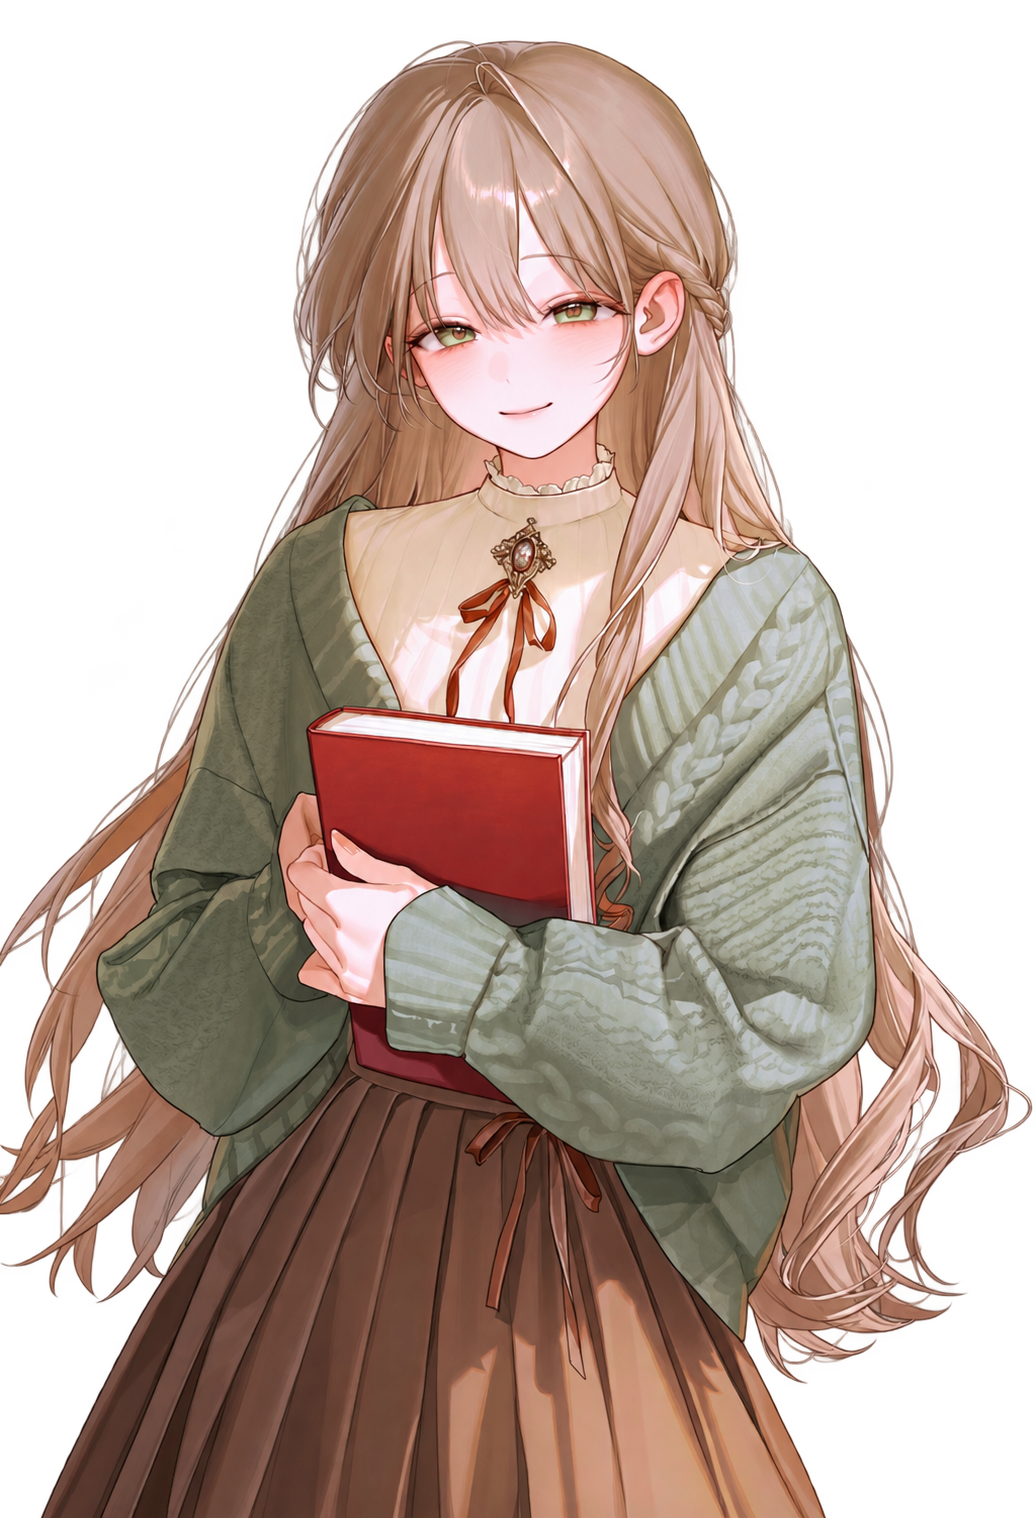
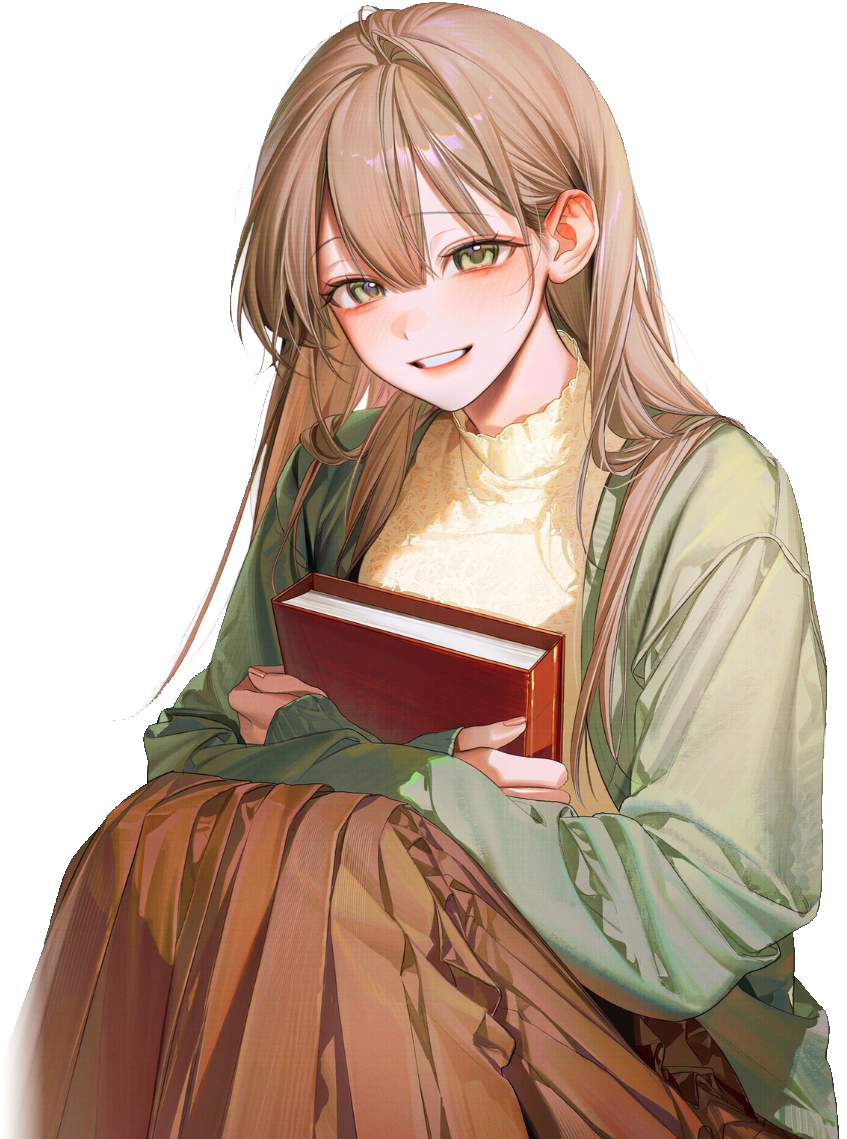
Replace 23 dialogue portraits with newly supplied art (cutouts), keep originals (#34)
Claude-Session: https://claude.ai/code/session_01YYQsjKpVmJi6CVRMp1nxBQ

diff --git a/js/world/portrait-data.js b/js/world/portrait-data.js
@@ -1,117 +1,117 @@
 // Replace assets/characters/dialogue/<NPC ID>.png independently of exploration chibis.
 export const portraitAssets = {
   "edelin": {
-    "src": "./assets/characters/dialogue/edelin.png",
+    "src": "./assets/characters/dialogue/edelin.png?v=20261104f",
     "fallback": "./assets/npc/../characters/portraits/edelin.png",
     "alt": "에델린 대화 원화"
   },
   "serepina": {
-    "src": "./assets/characters/dialogue/serepina.png",
+    "src": "./assets/characters/dialogue/serepina.png?v=20261104f",
     "fallback": "./assets/npc/../characters/portraits/seraphina.png",
     "alt": "세레피나 대화 원화"
   },
   "kylen": {
-    "src": "./assets/characters/dialogue/kylen.png",
+    "src": "./assets/characters/dialogue/kylen.png?v=20261104f",
     "fallback": "./assets/npc/../characters/portraits/kailen.png",
     "alt": "카일런 대화 원화"
   },
   "luciel": {
-    "src": "./assets/characters/dialogue/luciel.png",
+    "src": "./assets/characters/dialogue/luciel.png?v=20261104f",
     "fallback": "./assets/npc/../characters/portraits/luciel.png",
     "alt": "루시엘 대화 원화"
   },
   "rowen": {
-    "src": "./assets/characters/dialogue/rowen.png",
+    "src": "./assets/characters/dialogue/rowen.png?v=20261104f",
     "fallback": "./assets/npc/../characters/portraits/rowen.png",
     "alt": "로웬 대화 원화"
   },
   "bianca": {
-    "src": "./assets/characters/dialogue/bianca.png",
+    "src": "./assets/characters/dialogue/bianca.png?v=20261104f",
     "fallback": "./assets/npc/../characters/portraits/bianca.png",
     "alt": "비앙카 대화 원화"
   },
   "noah": {
-    "src": "./assets/characters/dialogue/noah.png",
+    "src": "./assets/characters/dialogue/noah.png?v=20261104f",
     "fallback": "./assets/npc/../characters/portraits/noah.png",
     "alt": "노아 대화 원화"
   },
   "mariel": {
-    "src": "./assets/characters/dialogue/mariel.png",
+    "src": "./assets/characters/dialogue/mariel.png?v=20261104f",
     "fallback": "./assets/npc/../characters/portraits/mariel.png",
     "alt": "마리엘 대화 원화"
   },
   "isabel": {
-    "src": "./assets/characters/dialogue/isabel.png",
+    "src": "./assets/characters/dialogue/isabel.png?v=20261104f",
     "fallback": "./assets/npc/../characters/portraits/isabel.png",
     "alt": "이사벨 대화 원화"
   },
   "theo": {
-    "src": "./assets/characters/dialogue/theo.png",
+    "src": "./assets/characters/dialogue/theo.png?v=20261104f",
     "fallback": "./assets/npc/../characters/portraits/theo.png",
     "alt": "테오 대화 원화"
   },
   "adela": {
-    "src": "./assets/characters/dialogue/adela.png",
+    "src": "./assets/characters/dialogue/adela.png?v=20261104f",
     "fallback": "./assets/npc/../characters/portraits/adela.png",
     "alt": "아델라 대화 원화"
   },
   "lillian": {
-    "src": "./assets/characters/dialogue/lillian.png",
+    "src": "./assets/characters/dialogue/lillian.png?v=20261104f",
     "fallback": "./assets/npc/../characters/portraits/lillian.png",
     "alt": "릴리안 대화 원화"
   },
   "edwin": {
-    "src": "./assets/characters/dialogue/edwin.png",
+    "src": "./assets/characters/dialogue/edwin.png?v=20261104f",
     "fallback": "./assets/npc/../characters/portraits/edwin.png",
     "alt": "에드윈 대화 원화"
   },
   "cordelia": {
-    "src": "./assets/characters/dialogue/cordelia.png",
+    "src": "./assets/characters/dialogue/cordelia.png?v=20261104f",
     "fallback": "./assets/npc/../characters/portraits/cordelia.png",
     "alt": "코델리아 대화 원화"
   },
   "felix": {
-    "src": "./assets/characters/dialogue/felix.png",
+    "src": "./assets/characters/dialogue/felix.png?v=20261104f",
     "fallback": "./assets/npc/../characters/portraits/felix.png",
     "alt": "페릭스 대화 원화"
   },
   "nepia": {
-    "src": "./assets/characters/dialogue/nepia.png",
+    "src": "./assets/characters/dialogue/nepia.png?v=20261104f",
     "fallback": "./assets/npc/../characters/portraits/nephia.png",
     "alt": "네피아 대화 원화"
   },
   "seira": {
-    "src": "./assets/characters/dialogue/seira.png",
+    "src": "./assets/characters/dialogue/seira.png?v=20261104f",
     "fallback": "./assets/npc/../characters/portraits/seira.png",
     "alt": "세이라 대화 원화"
   },
   "arachne": {
-    "src": "./assets/characters/dialogue/arachne.png",
+    "src": "./assets/characters/dialogue/arachne.png?v=20261104f",
     "fallback": "./assets/npc/../characters/portraits/arachne.png",
     "alt": "아라크네 대화 원화"
   },
   "neri": {
-    "src": "./assets/characters/dialogue/neri.png",
+    "src": "./assets/characters/dialogue/neri.png?v=20261104f",
     "fallback": "./assets/npc/../characters/portraits/neri.png",
     "alt": "네리 대화 원화"
   },
   "morel": {
-    "src": "./assets/characters/dialogue/morel.png",
+    "src": "./assets/characters/dialogue/morel.png?v=20261104f",
     "fallback": "./assets/npc/../characters/portraits/morel.png",
     "alt": "모렐 대화 원화"
   },
   "lepion": {
-    "src": "./assets/characters/dialogue/lepion.png",
+    "src": "./assets/characters/dialogue/lepion.png?v=20261104f",
     "fallback": "./assets/npc/../characters/portraits/lepion.png",
     "alt": "레피온 대화 원화"
   },
   "sarkan": {
-    "src": "./assets/characters/dialogue/sarkan.png",
+    "src": "./assets/characters/dialogue/sarkan.png?v=20261104f",
     "fallback": "./assets/npc/../characters/portraits/sarkan.png",
     "alt": "사르칸 대화 원화"
   },
   "miel": {
-    "src": "./assets/characters/dialogue/miel.png",
+    "src": "./assets/characters/dialogue/miel.png?v=20261104f",
     "fallback": "./assets/npc/../characters/portraits/miel.png",
     "alt": "미엘 대화 원화"
   }

diff --git a/js/world/world.js b/js/world/world.js
@@ -1,9 +1,9 @@
 import { villageMap } from './map-data.js';
 import { places } from './place-data.js';
-import { npcs, npcsAt } from './npc-data.js?v=20261104d';
+import { npcs, npcsAt } from './npc-data.js?v=20261104f';
 import { hasMet, completeFirstMeeting } from './encounter-session.js';
 import { readSave } from '../storage.js';
-import { chibiResidents } from './chibi-data.js?v=20261104d';
+import { chibiResidents } from './chibi-data.js?v=20261104f';
 
 const $ = id => document.getElementById(id);
 const app = $('world'), dialog = $('npc-dialog');

diff --git a/world.html b/world.html
@@ -25,7 +25,7 @@
   <link rel="stylesheet" href="./sprite-test.css?v=20261103">
 <link rel="stylesheet" href="./chibi-scenes.css?v=20261104c">
 <link rel="stylesheet" href="./visual-novel.css?v=20261104">
-<script type="module" src="./js/world/world.js?v=20261104d"></script>
+<script type="module" src="./js/world/world.js?v=20261104f"></script>
 </head>
 <body class="mv-world mv-chibi-world">
 <main id="world" class="mv-world-app" data-view="map">

diff --git a/js/world/npc-data.js b/js/world/npc-data.js
@@ -1,5 +1,5 @@
-import { chibiResidents } from './chibi-data.js?v=20261104d';
-import { portraitAssets } from './portrait-data.js';
+import { chibiResidents } from './chibi-data.js?v=20261104f';
+import { portraitAssets } from './portrait-data.js?v=20261104f';
 import { sceneArt } from './scene-art.js';
 import { firstMeetings } from './first-meetings.js';
 import { npcPresentation } from './npc-presentation.js';

diff --git a/CHIBI_IMPLEMENTATION_KO.md b/CHIBI_IMPLEMENTATION_KO.md
@@ -50,3 +50,7 @@
 - **누끼**: 흰색 일괄 삭제 대신 AI 전경 분리(isnet-anime) + 알파 매팅으로 `assets/characters/chibis-matted/<id>.webp` 23장을 새로 만들었습니다. 원본(`chibi-originals`)과 이전 보정본(`chibis-refined`)은 그대로 있습니다. 만드는 방법은 `tools/chibi-matting/README.md`.
 - **원본에서 이미 잘려 있는 그림**(모렐 우산갓, 세레피나 모자, 세이라 꼬리, 네리 머리끝, 레피온 날개 끝, 아라크네 옆 머리카락)은 그림을 새로 그리지 않고 잘린 변만 부드럽게 흐렸습니다(`matte-report.json`의 `sourceCutSides`).
 - **농사 연출**(`js/loading.js`): 씨앗은 손 끝, 물은 물뿌리개 주둥이에서 출발해 캐릭터가 바라보는 쪽(화면 왼쪽) 밭으로 떨어지고, 닿은 자리에 씨앗 자국 → 젖은 흙 → 새싹이 생깁니다.
+
+## 2026-11-04 대화용 원화 교체 (새 zip)
+- 새로 받은 대화용 일러스트 23장을 배경 제거해 `assets/characters/dialogue/<id>.png` 로 교체했습니다. 받은 그대로의 파일은 `assets/characters/dialogue-originals/` 에 보존합니다.
+- 원본 그림에서 옆이 잘려 있던 변은 부드럽게 흐렸습니다. 이후 파일만 같은 이름으로 바꿔 넣으면 됩니다(경로 뒤 `?v=` 값을 올리면 브라우저가 새 파일을 받습니다).
